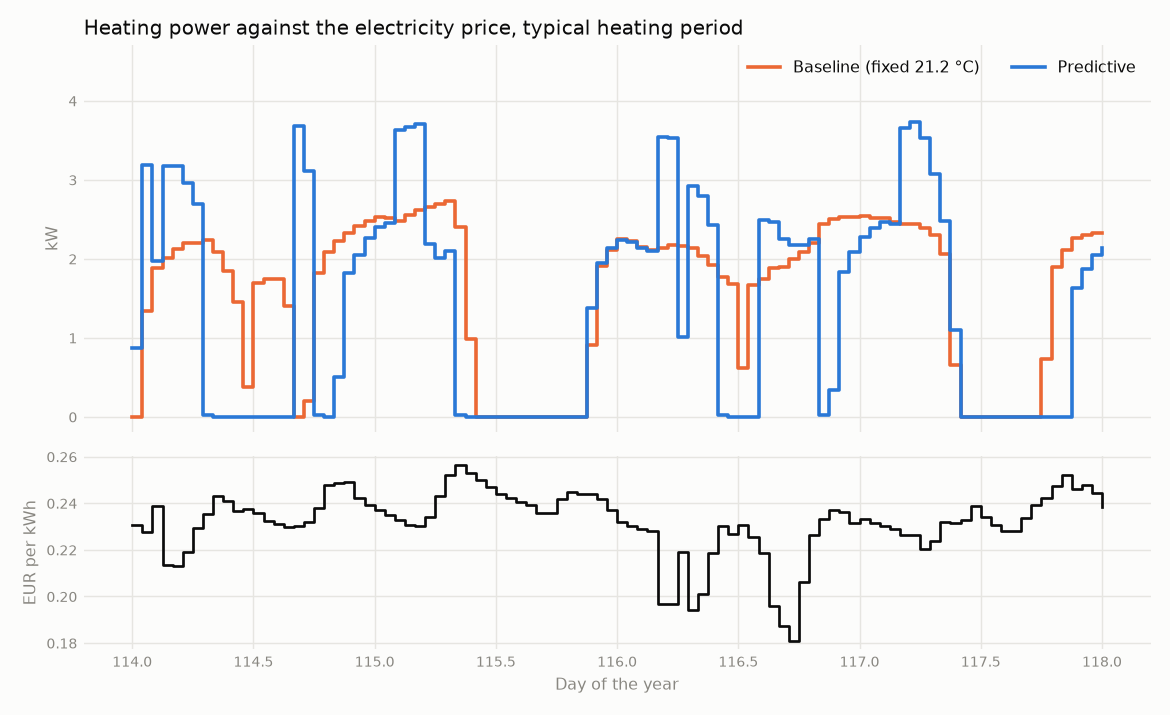
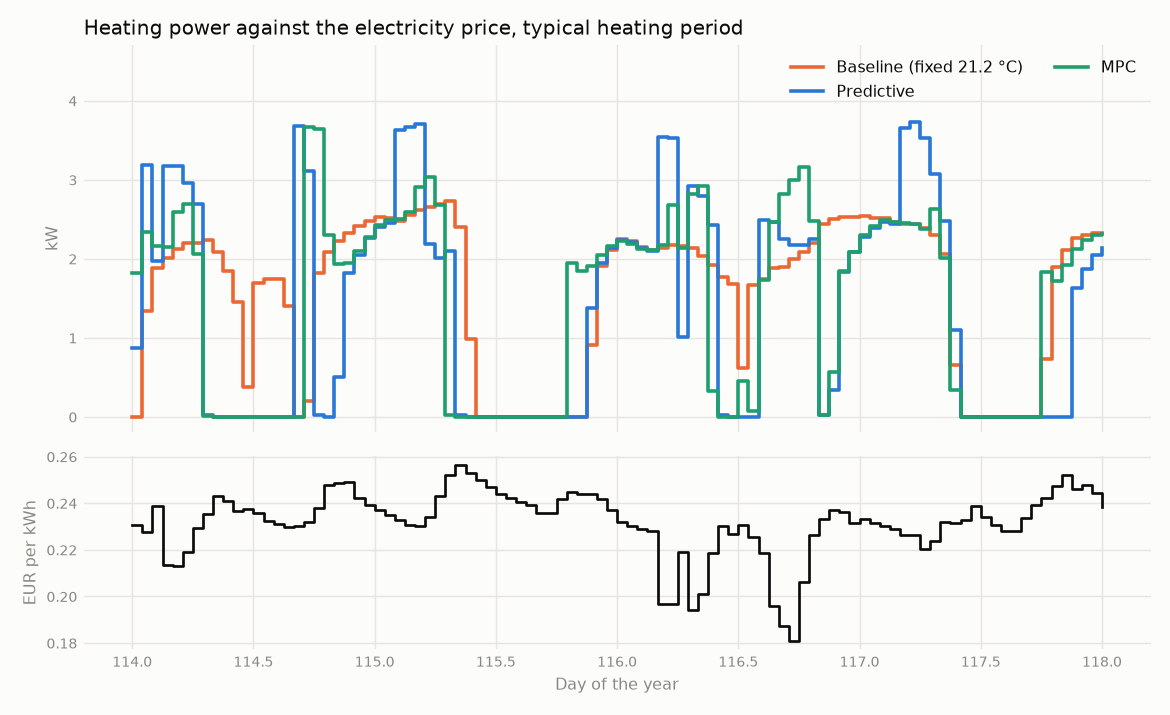
docs(phase2): report MPC results and record decision 0004
On the unseen periods MPC cost 13.7% to 20.2% less than the baseline and
3.3% to 8.3% less than the look-ahead heuristic, with similar discomfort.
The results page notes that the "off" setpoint rule was added after
seeing the reported scenarios, which is why the unseen periods exist.

diff --git a/docs/results/phase2.md b/docs/results/phase2.md
@@ -4,6 +4,8 @@
 
 **The predictive controller cut heating cost by 10% to 16% in every scenario tested, with comfort no worse than the baseline.**
 
+**A model predictive controller (MPC), added later, cut cost by 14% to 20% against the baseline on two periods neither controller was built on, 3% to 8% more than the predictive controller.** See [MPC](#mpc) below.
+
 ## What was tested
 
 A simulated 192 m² family home in Brussels, heated by a heat pump and underfloor heating. The home is empty on weekdays from 07:00 to 20:00. The simulator is [BOPTEST](https://ibpsa.github.io/project1-boptest/) (test case `bestest_hydronic_heat_pump`, version 0.9.0), which scores every controller the same way.
@@ -58,11 +60,52 @@ Where the saving comes from, under spot prices:
 - **Forecasts were perfect.** BOPTEST supplied exact weather, prices, and occupancy. Real forecasts are less accurate.
 - **One simulated home.** A home that is occupied all day would save much less, because there would be no empty hours to exploit.
 
+## MPC
+
+Added on 16 November 2026 ([decision 0004](../decisions/0004-mpc-controller.md)). Instead of fixed rules, it plans 24 hours of heat pump power every hour, using a fitted model of the house, then hands the first hour to the thermostat as a setpoint.
+
+### The house model
+
+Four numbers, fitted on two weeks where the heat pump followed a random signal (from day 45). The phase 2 runs could not be used: the thermostat raised power exactly when the room cooled, and a model fitted on them was worse than guessing that the temperature stays put.
+
+| Predicting the next 24 hours, two unseen weeks (from day 330) | Mean error |
+| --- | --- |
+| Temperature stays where it is | 1.08 °C |
+| **Fitted model** | **0.50 °C** |
+
+The house loses heat slowly: its time constant is about 49 hours.
+
+### Results
+
+Cost, with discomfort in brackets. The first four rows are the scenarios above. The last four are two-week periods that no controller was designed or tuned on.
+
+| Scenario | Baseline | Predictive | MPC | MPC saved vs baseline | MPC saved vs predictive |
+| --- | --- | --- | --- | --- | --- |
+| Coldest period, day/night tariff | 174.16 EUR (1.49 Kh) | 152.23 EUR (1.53 Kh) | 148.59 EUR (3.11 Kh) | 14.7% | 2.4% |
+| Coldest period, spot prices | 179.56 EUR (1.49 Kh) | 153.83 EUR (0.84 Kh) | 154.36 EUR (1.59 Kh) | 14.0% | -0.3% |
+| Typical period, day/night tariff | 92.49 EUR (7.08 Kh) | 82.95 EUR (6.70 Kh) | 78.22 EUR (6.17 Kh) | 15.4% | 5.7% |
+| Typical period, spot prices | 85.81 EUR (7.08 Kh) | 72.44 EUR (6.71 Kh) | 71.34 EUR (5.93 Kh) | 16.9% | 1.5% |
+| **Unseen, from day 64, day/night tariff** | 132.04 EUR (2.76 Kh) | 113.10 EUR (2.66 Kh) | 107.17 EUR (2.68 Kh) | **18.8%** | **5.2%** |
+| **Unseen, from day 64, spot prices** | 123.19 EUR (2.76 Kh) | 101.68 EUR (2.72 Kh) | 98.31 EUR (2.93 Kh) | **20.2%** | **3.3%** |
+| **Unseen, from day 300, day/night tariff** | 104.79 EUR (0.21 Kh) | 96.33 EUR (0.03 Kh) | 88.34 EUR (0.08 Kh) | **15.7%** | **8.3%** |
+| **Unseen, from day 300, spot prices** | 99.37 EUR (0.21 Kh) | 91.18 EUR (0.05 Kh) | 85.74 EUR (0.06 Kh) | **13.7%** | **6.0%** |
+
+On the unseen periods the predictive controller saves 8% to 18%, a little less than on the weeks it was tuned on, as expected.
+
+### What to keep in mind
+
+- **Reheating starts a little late in the coldest period.** The model treats heat as arriving within the hour, but here it arrives through a heavy floor. Discomfort there is 3.11 Kh against 1.53 Kh, still under a quarter of a degree over two weeks.
+- **One design change was made after seeing the reported scenarios.** The first version asked the thermostat for the temperature the plan expected, even when the plan said "off". On sunny days the room ran warmer than the model predicted, the setpoint followed it up, and the thermostat heated an empty room to 30 °C (48 Kh). It now asks for the comfort floor whenever the plan says off. The unseen periods were added because of this change.
+- **The thermostat, not the optimizer, sets the exact power.** Driving the heat pump directly would follow the plan more closely.
+- **Peak power** is 3.3 to 3.8 kW, between the baseline and the predictive controller.
+
 ## Reproduce
 
 Start BOPTEST as described in the [README](../../README.md), then:
 
 ```bash
+uv run python -m edge_energy_optimizer.control.identify
+uv run python -m edge_energy_optimizer.control.thermal_model
 uv run python -m edge_energy_optimizer.control.experiment
 uv run python -m edge_energy_optimizer.control.report
 ```

diff --git a/docs/decisions/0004-mpc-controller.md b/docs/decisions/0004-mpc-controller.md
@@ -1,0 +1,31 @@
+# 0004: Add a model predictive controller
+
+- Status: accepted
+- Date: 2026-11-16
+
+## Context
+
+Decision 0003 left MPC for later. The look-ahead heuristic follows fixed rules (preheat 4 hours ahead, add 1 °C when cheap), and its settings were tuned on the scenarios it is reported on. MPC replaces the rules with a model of the house and an optimizer, so preheating and heat storage follow from the forecast instead of from hand-picked numbers.
+
+## Decision
+
+- **Thermal model:** one room, four numbers fitted with least squares. Each hour the temperature changes by `loss * (outdoor - room) + heat * power + solar * sunshine + drift`. Power is the heat pump's electric power, so the optimizer prices it directly. Extra delay terms for the slow floor were tried and barely helped, so the simplest model was kept.
+- **Training data from an identification experiment**, not from the phase 2 runs. In those runs a thermostat raised power exactly when the room cooled, so a model fitted on them was worse than assuming the temperature stays put. `control/identify.py` drives the heat pump directly with a random signal for two weeks from day 45 (training) and two weeks from day 330 (checking).
+- **Optimizer:** a linear program solved every hour with SciPy's HiGHS. It chooses 24 hours of power between 0 and 4.5 kW to minimise cost plus 10 EUR per kelvin-hour outside the comfort band (0.2 °C margin). Slack variables keep it solvable when comfort is out of reach.
+- **Same interface as the other controllers.** The first hour of the plan becomes a setpoint: the comfort floor when the plan says off, otherwise the temperature the plan expects at the end of the hour, and at least the floor when it heats flat out.
+- **Two unseen test periods** were added to the experiment for all controllers: two weeks from day 64 and two weeks from day 300. Nothing was designed or tuned on them.
+
+## Alternatives tried
+
+- **Always ask for the planned temperature.** The first version did this. On sunny days the room ran warmer than the model expected, the setpoint followed it upward, and the thermostat kept heating an empty room at 28 to 30 °C (48 Kh of discomfort in the typical period). Asking for the floor whenever the plan says off fixed it. This change was made after seeing the reported scenarios, which is why the unseen periods were added.
+
+## Result
+
+On the two unseen periods MPC cost 13.7% to 20.2% less than the baseline and 3.3% to 8.3% less than the look-ahead heuristic, with similar discomfort. Full numbers are in [docs/results/phase2.md](../results/phase2.md#mpc).
+
+## Consequences
+
+- The model treats heat as arriving within the hour. In this house it arrives through a heavy floor, so reheating before people return can start late.
+- The setpoint mapping means the thermostat, not the optimizer, decides the exact power. Sending the plan's power straight to the heat pump (`oveHeaPumY_u`) would follow the plan more closely, but needs the interface to return more than a setpoint.
+- The model is linear and fitted on one house in one simulator. It must be refitted for any other building.
+- `scipy` is now a direct dependency.

diff --git a/README.md b/README.md
@@ -54,6 +54,17 @@ A predictive controller heats a simulated family home (BOPTEST test case `bestes
 
 Most of the saving comes from not heating an empty home, and the settings were tuned on these same scenarios. The full summary and its limits are in [docs/results/phase2.md](docs/results/phase2.md).
 
+A model predictive controller (MPC) was added next. Every hour it plans 24 hours of heating with a fitted model of the house, then applies the first hour. To keep the test fair, all three controllers were also run on two periods none of them was built on:
+
+| Unseen period (two weeks) | Baseline | Predictive | MPC | MPC saved vs predictive |
+| --- | --- | --- | --- | --- |
+| From day 64, day/night tariff | 132.04 EUR | 113.10 EUR | **107.17 EUR** | 5.2% |
+| From day 64, spot prices | 123.19 EUR | 101.68 EUR | **98.31 EUR** | 3.3% |
+| From day 300, day/night tariff | 104.79 EUR | 96.33 EUR | **88.34 EUR** | 8.3% |
+| From day 300, spot prices | 99.37 EUR | 91.18 EUR | **85.74 EUR** | 6.0% |
+
+Discomfort was similar for all three. The house model predicts the next 24 hours to within 0.50 °C on unseen weeks, against 1.08 °C for assuming the temperature stays put. See [the MPC results](docs/results/phase2.md#mpc) and [decision 0004](docs/decisions/0004-mpc-controller.md).
+
 ## Running phase 1
 
 ```bash
@@ -92,7 +103,9 @@ BOPTEST then answers on `http://127.0.0.1:80`. The override file swaps the MinIO
 
 | Command | What it does |
 | --- | --- |
-| `uv run python -m edge_energy_optimizer.control.experiment` | Runs both controllers on all four scenarios (about 3 minutes) and saves the results |
+| `uv run python -m edge_energy_optimizer.control.identify` | Drives the heat pump with a random signal for four weeks to collect training data for the house model |
+| `uv run python -m edge_energy_optimizer.control.thermal_model` | Fits the house model and scores it against "temperature stays put" |
+| `uv run python -m edge_energy_optimizer.control.experiment` | Runs all three controllers on the four scenarios and two unseen periods (about 10 minutes) and saves the results. Needs the fitted house model |
 | `uv run python -m edge_energy_optimizer.control.report` | Draws the charts from the saved results |
 
 Stop BOPTEST when done:

diff --git a/CLAUDE.md b/CLAUDE.md
@@ -1,6 +1,6 @@
 # edge-energy-optimizer
 
-Building energy optimization in 5 phases. Phases 1 (load forecasting) and 2 (control against BOPTEST) are done, phase 3 (BACnet and Modbus) is next. Phases 1 and 2 are due Sunday 11 October 2026.
+Building energy optimization in 5 phases. Phases 1 (load forecasting) and 2 (control against BOPTEST) are done, phase 3 (BACnet and Modbus) is next. Phase 2 has three controllers: a fixed baseline, a look-ahead heuristic, and MPC.
 
 ## Where things are
 - Vision and phases: `docs/architecture.md`. Choices made so far: `docs/decisions/`.
@@ -25,4 +25,4 @@ Claude builds in small steps. Before moving on, explain the one new concept with
 ## Watch-outs
 - The forecaster is trained on a real building, not the BOPTEST one, and phase 2 does not use it. Retrain the same pipeline on BOPTEST data when a later phase needs a load forecast.
 - The predictive controller's settings were tuned on the scenarios it is reported on. Rerun the experiment and say so when changing them.
-- Still open: whether to add an MPC controller.
+- The MPC controller needs `models/thermal_model.json` (gitignored). Recreate it with the `control.identify` and `control.thermal_model` modules. Its "off" setpoint rule was added after seeing the reported scenarios, so judge it on the unseen periods.
